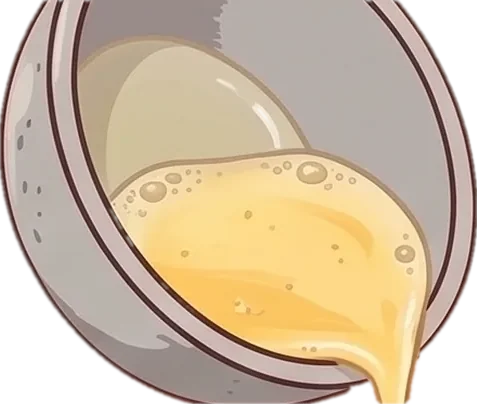
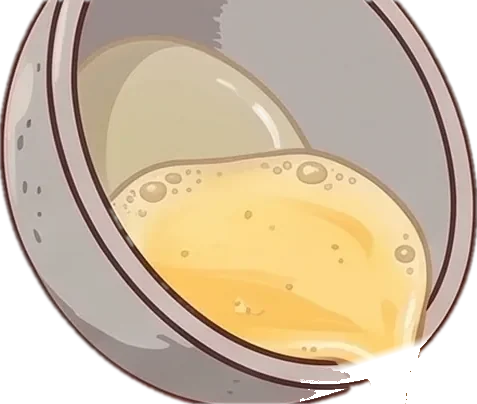
Stir bowl rim uncut; stream anchored to bowl lip; over-tilt fail state
The stir bowl cutout box was slicing 8px off the top rim - re-extracted
with a generous box (label text drops out as a separate component). The
pour bowl sprite carried its own drawn stream, which rotated with the bowl
away from the CSS stream; the drawn tongue is now erased along a feathered
lip line so the CSS stream (anchored at the lip pivot) lines up at every
angle. Holding the tilt past 72deg for 0.35s now spills the egg: shake,
splash burst, fail message, and the fill resets to zero before retrying.

Changed region(s): [[0.6164, 0.8317, 0.9099, 1.0]]

diff --git a/cook.html b/cook.html
@@ -101,9 +101,9 @@
   .stirScene { position: absolute; inset: 0; }
   .card .img .stirScene .slay { position: absolute; inset: auto; opacity: 1; pointer-events: none; -webkit-user-drag: none; } /* 프레임 스택용 img+img 숨김 규칙 무효화 */
   .card .img .stirScene .sBg { left: 0; top: 0; width: 100%; height: 100%; object-fit: cover; }
-  .card .img .stirScene .sBowl { left: 13%; top: 36%; width: 74%; height: 57%; }
+  .card .img .stirScene .sBowl { left: 13%; top: 35%; width: 74%; height: 58%; }
   /* 계란물 '내용물'만 — 볼 테두리는 raw 한 장이 계속 담당하므로 볼이 깜빡일 일이 없다 */
-  .card .img .stirScene .sMixC { left: 20.8%; top: 47.9%; width: 58.6%; height: 23.1%; opacity: 0; transition: opacity .35s; }
+  .card .img .stirScene .sMixC { left: 21.4%; top: 48.1%; width: 58%; height: 22.5%; opacity: 0; transition: opacity .35s; }
   .card .img .stirScene .sWhisk { left: 39%; top: 9%; width: 22%; height: 64.8%;
                                   transform-origin: 50% 75%; will-change: transform; }
   #scrStir .card { aspect-ratio: 1/1; }
@@ -157,7 +157,7 @@
   .card .img .pourScene .layFill { left: 4.5%; top: 43.5%; width: 89.9%; height: 38.9%; opacity: 0; transition: opacity .3s; }
   .card .img .pourScene .layBowl { left: 2.2%; top: -1.3%; width: 61.4%; height: 52%;
                                    transform-origin: 81.9% 81.7%; transition: transform .1s linear; transform: rotate(-35deg); }
-  .card .img .pourScene .layStream { left: 51%; top: 41%; width: 3.2%; height: 22%; opacity: 0; transition: opacity .15s;
+  .card .img .pourScene .layStream { left: 50.6%; top: 40.8%; width: 3.8%; height: 22.5%; opacity: 0; transition: opacity .15s;
                                      background: linear-gradient(#F3CE59, #F7DC7E); border-radius: 0 0 999px 999px; }
   .stream { position: absolute; left: 50%; top: -6px; width: 10px; height: 0; margin-left: -5px; z-index: 3;
             background: linear-gradient(180deg, #FFE49B, var(--yolk)); border-radius: 0 0 8px 8px; opacity: 0; transition: opacity .15s; }
@@ -654,7 +654,8 @@
       curFill = i;
       for (var k = 0; k < fills.length; k++) fills[k].style.opacity = k === i ? '1' : '0';
     }
-    var ZLO = 25, ZHI = 55, MAXA = 90;
+    var ZLO = 25, ZHI = 55, MAXA = 90, FAILA = 72;
+    var overAcc = 0; // 과기울임 누적 시간(초)
     var fillPct = 0, doneFlag = false, baseTilt = null, baseSamples = [], lastT = null, dropAcc = 0;
     var touchDrag = null, touchAngle = 0;
     function setAngle(aDeg, t) {
@@ -673,6 +674,12 @@
         dropAcc += (t - lastT) * rate;
         if (dropAcc > 0.16) { dropAcc = 0; drop(); sfx('pourLoop'); }
       }
+      // 너무 심하게 기울인 채 버티면 실패 (센서 스파이크는 0.35초 유예로 걸러냄)
+      if (lastT !== null) {
+        if (a >= FAILA) overAcc += (t - lastT);
+        else overAcc = Math.max(0, overAcc - (t - lastT) * 2);
+        if (overAcc > 0.35) { overAcc = 0; lastT = t; doFail(); return; }
+      }
       lastT = t;
       // 채움 진행도에 따라 각 단계가 자기 구간에서 페이드인되며 이전 단계를 덮는다 (휘젓기와 동일)
       var rr = fillPct / target * 100;
@@ -681,6 +688,7 @@
       fillVal.textContent = fillPct.toFixed(0) + '%';
       fillBar.style.width = fillPct + '%';
       pill.textContent = !pouring ? '초록 구간까지 기울여요 🥣'
+        : a >= 70 ? '너무 기울어요!! 쏟아지겠어요 😱'
         : a > ZHI + 12 ? '콸콸콸!! 조금만 살살~ 😅'
         : a > ZHI ? '살짝만 낮춰요~' : '잘 붓고 있어요! 🍳';
       if (fillPct >= target && !doneFlag) {
@@ -691,6 +699,25 @@
         card.animate([{ transform: 'scale(1)' }, { transform: 'scale(1.05)' }, { transform: 'scale(1)' }], { duration: 300 });
         setTimeout(function () { stepClear(stampEmoji, nextId); }, 350);
       }
+    }
+    function doFail() {
+      doneFlag = true;
+      sfx('fail'); vib([70, 50, 90]);
+      stream.style.opacity = '0';
+      pill.textContent = '앗!! 너무 기울여서 다 쏟았어요 😵';
+      var ar = app.getBoundingClientRect();
+      burst(ar.width / 2, ar.height / 2, ['💧', '🥚', '💦'], 12, 120);
+      card.animate([
+        { transform: 'translateX(0)' }, { transform: 'translateX(-9px)' }, { transform: 'translateX(8px)' },
+        { transform: 'translateX(-6px)' }, { transform: 'translateX(4px)' }, { transform: 'translateX(0)' }
+      ], { duration: 450 });
+      setTimeout(function () {
+        fillPct = 0; lastT = null; doneFlag = false;
+        fillBar.style.width = '0'; fillVal.textContent = '0%';
+        fills[0].style.opacity = '1';
+        for (var k = 1; k < 5; k++) fills[k].style.opacity = '0';
+        pill.textContent = '괜찮아요! 다시 천천히 부어요 🥣';
+      }, 1100);
     }
     function drop() {
       var r = card.getBoundingClientRect();
@@ -737,7 +764,7 @@
         setAngle(s.tiltDeg - baseTilt, s.t);
       },
       reset: function () {
-        fillPct = 0; doneFlag = false; curFill = -2; showFill(0);
+        fillPct = 0; doneFlag = false; overAcc = 0; curFill = -2; showFill(0);
         spr.style.transform = 'rotate(' + (-BAKED) + 'deg)';
         stream.style.opacity = '0';
         if (loopTimer) { clearInterval(loopTimer); loopTimer = null; }
